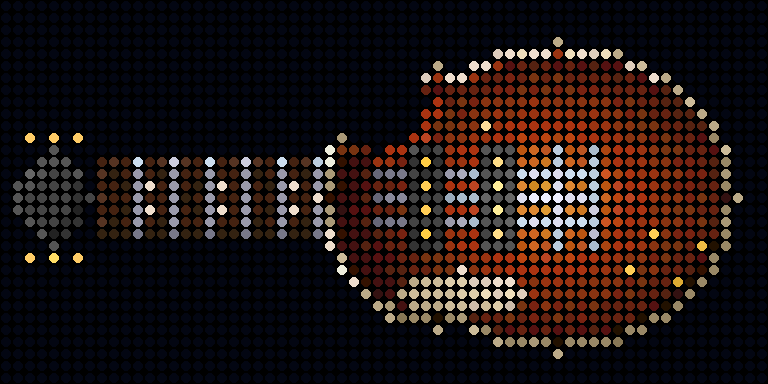
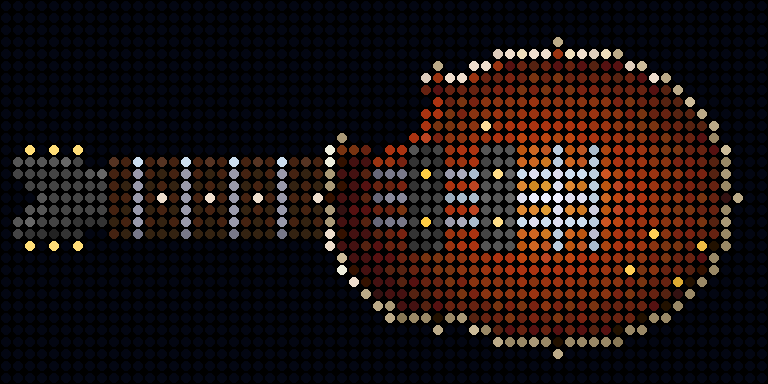
fix(rides): Les Paul polish — open-book headstock, 4-fret neck, cleaner face
Squared headstock plate with lobed crown and edge-mounted tuners; frets
7 -> 4 with single pearl dots (7 read as a barcode); pickguard dropped and
pickup poles halved so cream stays reserved for binding + inlays.

diff --git a/tools/gen_ride_designs.py b/tools/gen_ride_designs.py
@@ -2266,25 +2266,31 @@ def waves():
 # A single Gibson Les Paul: single-cutaway solid body, cream binding, twin humbuckers,
 # open-book headstock. The body is one flat fill ("R"); the rich pass paints the cherry
 # sunburst onto it with a radial light (bright amber centre -> dark edge). Materials map
-# to shared ramps in gen_rich_icons.rock_roller(): R=sunburst top, w=cream binding/
-# pickguard/inlays, N=rosewood fretboard, s=steel frets/strings/bridge, K=ink
+# to shared ramps in gen_rich_icons.rock_roller(): R=sunburst top, w=cream binding +
+# inlays, N=rosewood fretboard, s=steel frets/strings/bridge, K=ink
 # (humbuckers/headstock), o=gold (tuners/knobs/pole pieces).
 def rock_roller():
     g = grid()
     cy = 16                                      # horizontal centre line
     # Drawn STRAIGHT-ON (not in perspective): headstock left, neck across, body face-on
     # right, symmetric about cy. Reads far better than a 3/4 angle at 64x32.
-    # ---- Open-book headstock + 3+3 gold tuners ----
-    ellipse(g, 4, cy, 3, 4, "K")                 # black headstock plate
-    put(g, 1, cy - 1, "K"); put(g, 1, cy + 1, "K")
-    for ty in (cy - 5, cy + 5):                  # gold tuners, 3 per side
-        put(g, 2, ty, "o"); put(g, 4, ty, "o"); put(g, 6, ty, "o")
-    # ---- Neck / rosewood fretboard (horizontal) ----
-    rect(g, 8, cy - 3, 30, cy + 3, "N")          # fretboard, 7 px tall
-    for fx in (11, 14, 17, 20, 23, 26, 29):      # steel frets
+    # ---- Open-book headstock: flat plate with a lobed, centre-dipped crown, tapering
+    # into the nut; the tuners sit ON the plate edges instead of floating beside it ----
+    rect(g, 2, cy - 3, 8, cy + 3, "K")           # black headstock plate
+    put(g, 7, cy - 3, " "); put(g, 8, cy - 3, " ")   # taper into the nut
+    put(g, 7, cy + 3, " "); put(g, 8, cy + 3, " ")
+    put(g, 1, cy - 3, "K"); put(g, 1, cy - 2, "K")   # open-book lobes on the crown
+    put(g, 1, cy + 2, "K"); put(g, 1, cy + 3, "K")
+    put(g, 2, cy, " ")                               # centre dip (the "open book")
+    for tx in (2, 4, 6):                         # 3+3 gold tuners on the edges
+        put(g, tx, cy - 4, "o"); put(g, tx, cy + 4, "o")
+    # ---- Neck / rosewood fretboard: mostly solid wood, 4 widely-spaced frets (the
+    # earlier 7 read as a barcode at panel scale), single pearl dots between them ----
+    rect(g, 9, cy - 3, 30, cy + 3, "N")          # fretboard, 7 px tall
+    for fx in (11, 15, 19, 23):                  # steel frets
         vline(g, fx, cy - 3, cy + 3, "s")
-    for ix in (12, 18, 24):                      # trapezoid pearl inlays
-        put(g, ix, cy - 1, "w"); put(g, ix, cy + 1, "w")
+    for ix in (13, 17, 21):                      # pearl dot inlays
+        put(g, ix, cy, "w")
     # ---- Body: cream binding, then sunburst maple top (symmetric about cy) ----
     ellipse(g, 46, cy, 15, 13, "w")              # binding (lower/main bout)
     ellipse(g, 36, cy, 10, 11, "w")              # binding (upper bout by the neck)
@@ -2294,12 +2300,12 @@ def rock_roller():
     # ---- Strings (only over the body, nut side -> bridge) ----
     for sy in (cy - 2, cy, cy + 2):
         line(g, 31, sy, 49, sy, "s")
-    # ---- Pickups + hardware ----
-    ellipse(g, 38, cy + 8, 5, 2, "w")            # cream pickguard (lower/treble side)
+    # ---- Pickups + hardware (no pickguard: the cream blob read as a stray highlight,
+    # and losing it keeps cream reserved for the binding + inlays) ----
     rect(g, 34, cy - 4, 36, cy + 4, "K")         # neck humbucker (upright bar)
     rect(g, 40, cy - 4, 42, cy + 4, "K")         # bridge humbucker
-    for py in (cy - 3, cy - 1, cy + 1, cy + 3):
-        put(g, 35, py, "o"); put(g, 41, py, "o")  # gold pole pieces
+    for py in (cy - 2, cy + 2):                  # two gold pole pieces per humbucker
+        put(g, 35, py, "o"); put(g, 41, py, "o")
     vline(g, 46, cy - 4, cy + 4, "s")            # tune-o-matic bridge
     vline(g, 49, cy - 4, cy + 4, "s")            # stopbar tailpiece
     for kx, ky in ((52, cy + 6), (56, cy + 7), (54, cy + 3), (58, cy + 4)):